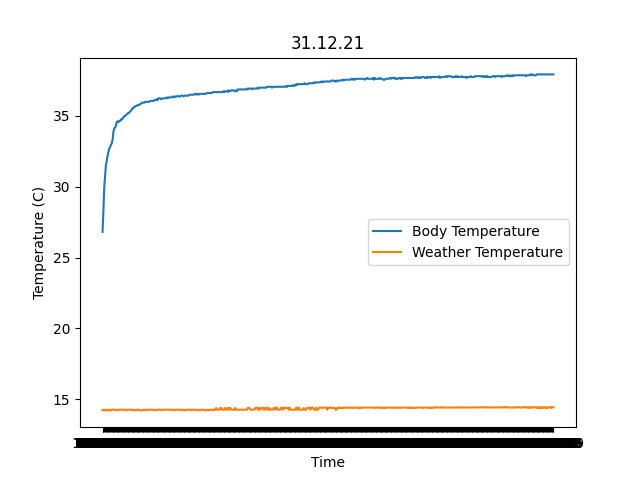
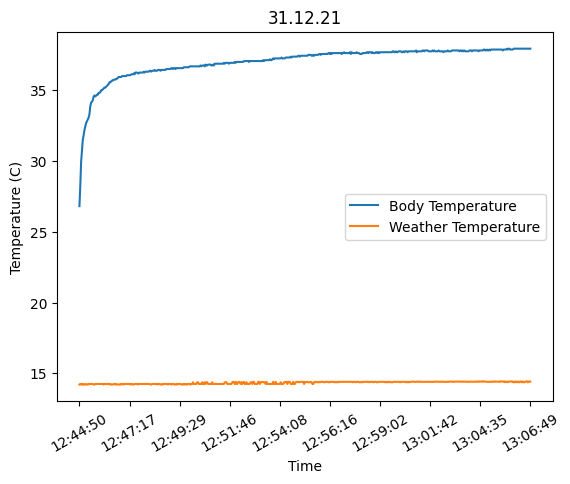
comment from python script

diff --git a/daily_chart_build.py b/daily_chart_build.py
@@ -1,10 +1,15 @@
 # importing the required module
 import matplotlib.pyplot as plt
 import datetime
+import numpy as np
 
 time_list = open('temp_data/time.txt', "r").read().splitlines()
 temp_list = list(map(float, open('temp_data/temp_raw.txt', "r").read().splitlines()))
 weather_list = list(map(float, open('temp_data/weather.txt', "r").read().splitlines()))
+
+no_ticks = 10
+
+seperation = (len(time_list))/(no_ticks-1)
 
 plt.figure()
 
@@ -20,4 +25,10 @@ plt.title(str(datetime.datetime.now().strftime('%d.%m.%y')))
 
 plt.legend()
 
-plt.savefig('docs/assets/latest_graph.png')
+tick_array = np.floor(np.arange(0, len(time_list)+1, step=seperation))
+
+tick_array[no_ticks-1]=len(time_list)-1
+
+plt.xticks(tick_array, rotation = 30)
+
+plt.savefig('docs/assets/latest_graph.png',bbox_inches='tight')

diff --git a/chart_build.py b/chart_build.py
@@ -41,7 +41,7 @@ def create_plots(x_axis, x_axis_name, save_name):
                     xytext=(0,10), # distance from text to points (x,y)
                     ha='center') # horizontal alignment can be left, right or center
 
-    plt.savefig('docs/assets/' + save_name +'.png')
+    plt.savefig('docs/assets/' + save_name +'.png',bbox_inches='tight')
 
 for i in range(len(x_ax_names)):
     create_plots(master_list[i], x_ax_names[i], graph_save_names[i])
